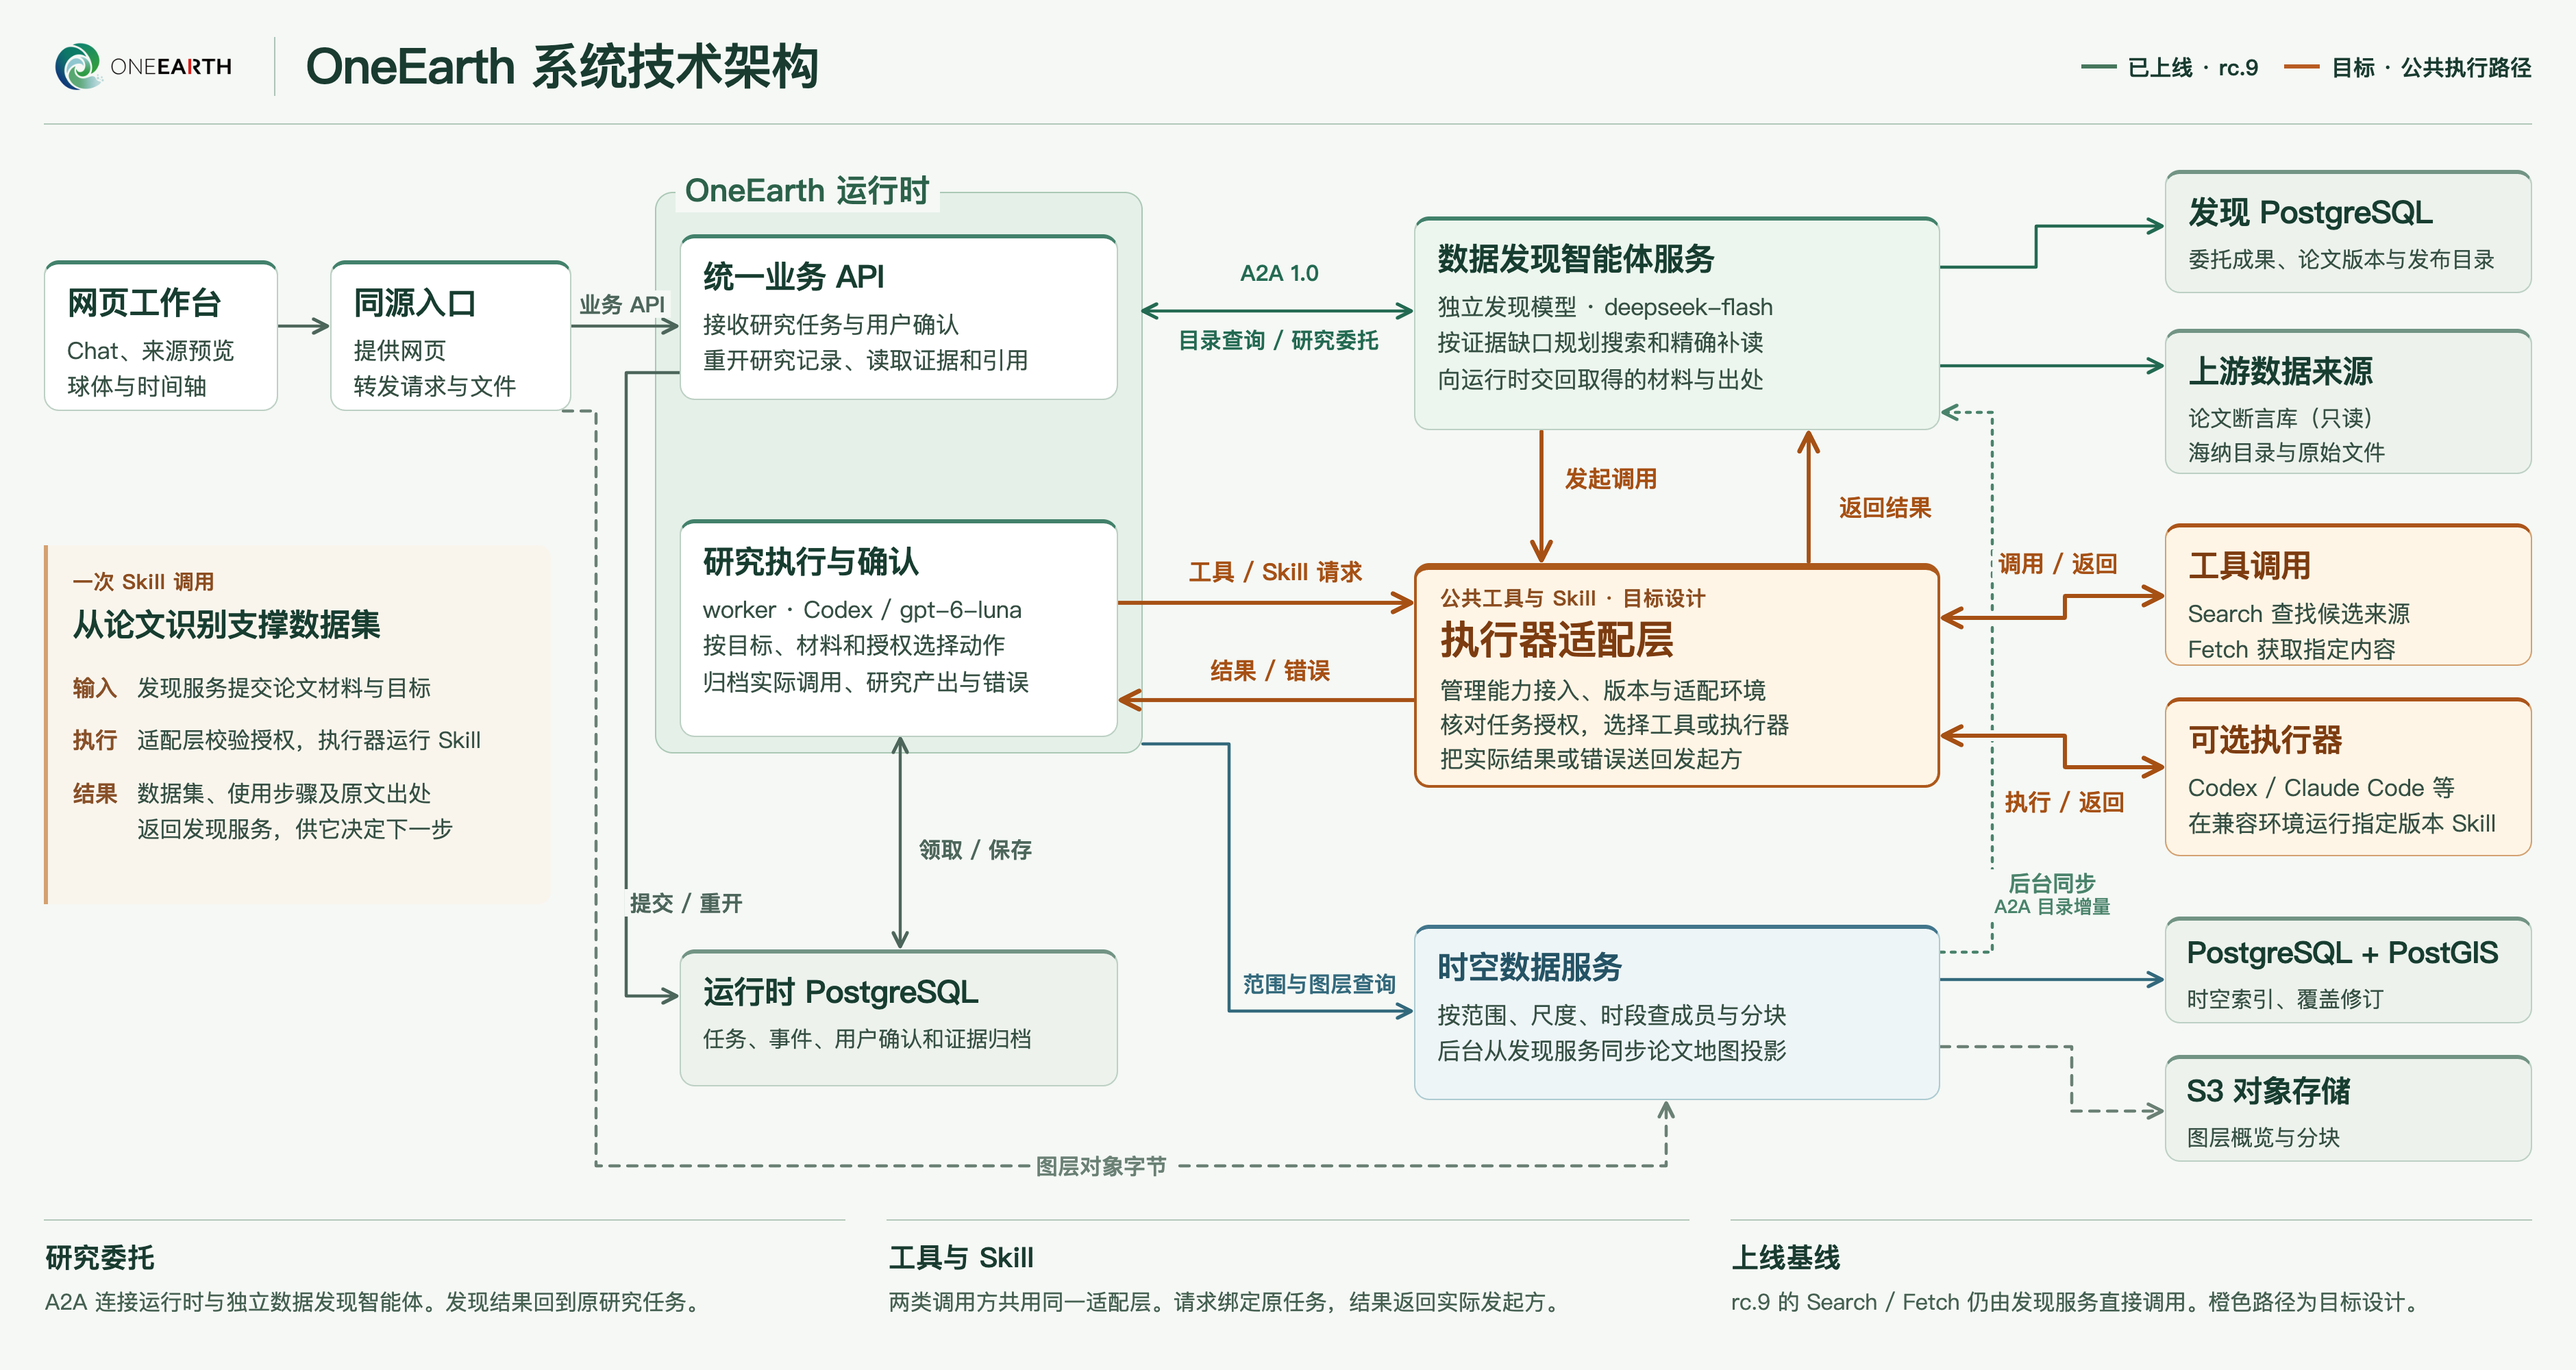
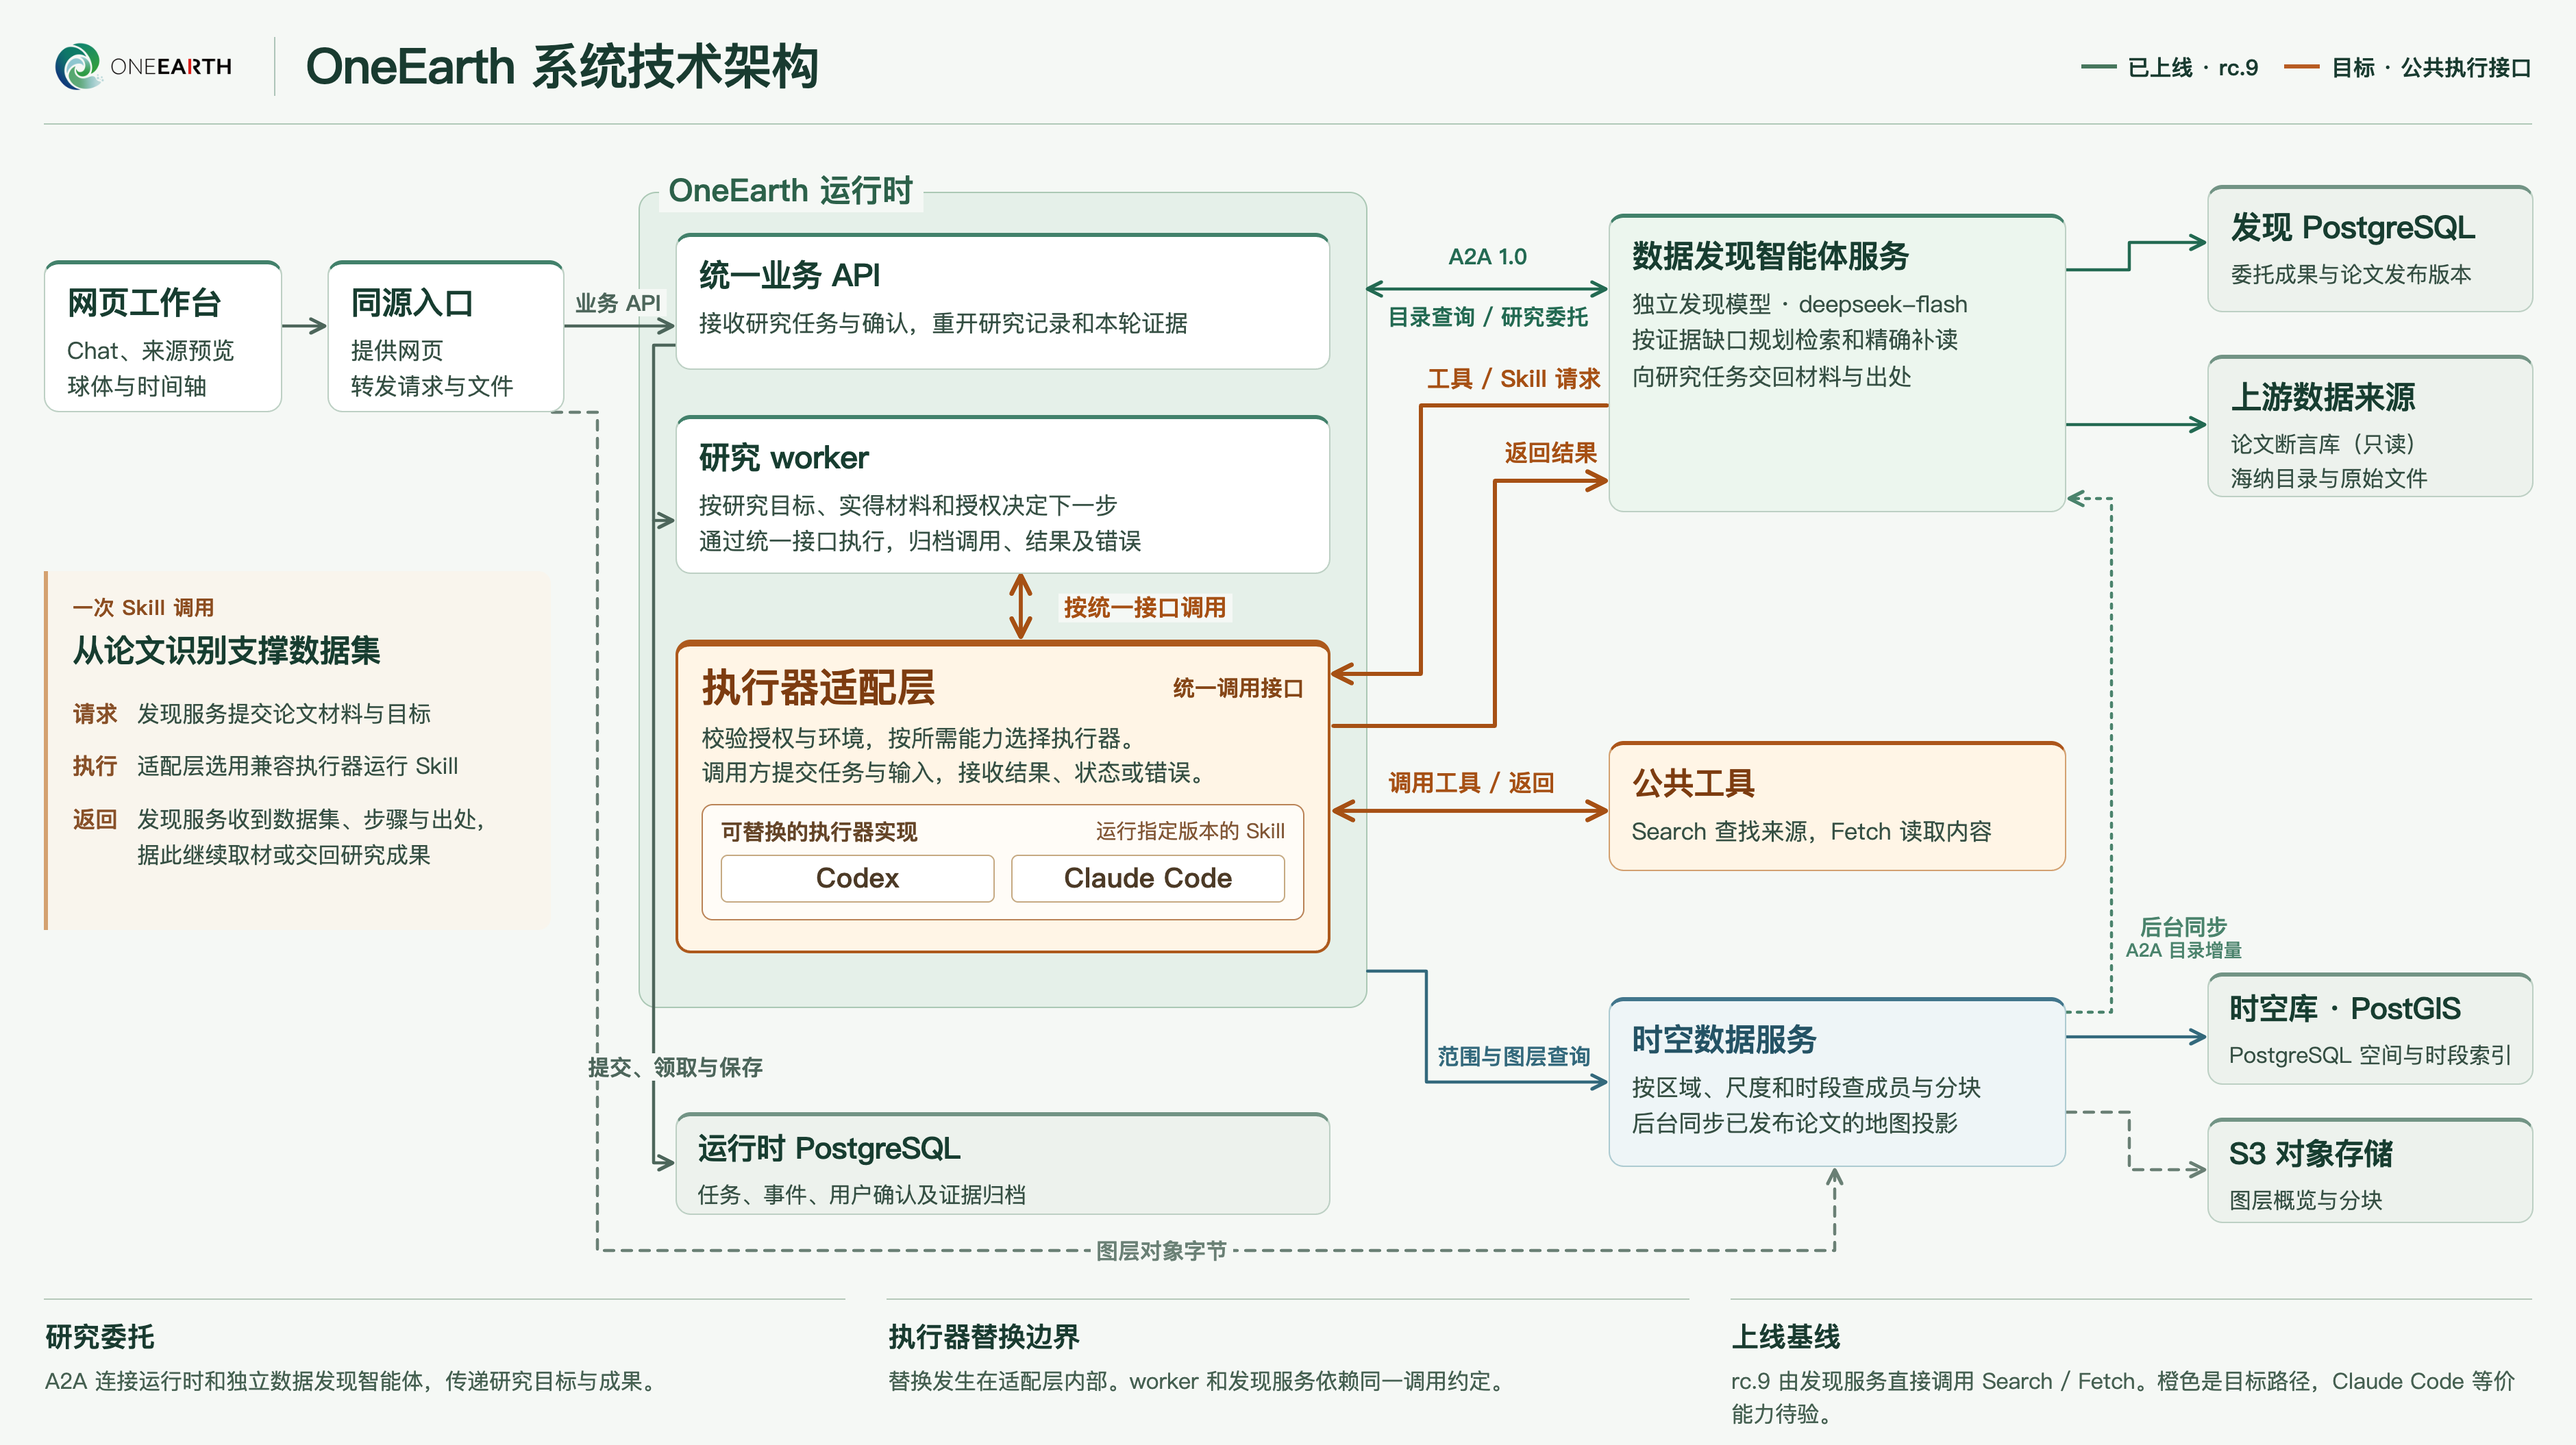
Clarify the runtime executor boundary in the architecture diagram

diff --git a/docs/架构与接口现状.md b/docs/架构与接口现状.md
@@ -1,6 +1,6 @@
 # OneEarth 架构与接口审查
 
-[执行架构目标图 PNG](diagrams/oneearth-execution-target.png)展示以 Mac mini 已签收版本 `v0.2.0-rc.9` 为基线的后续设计。
+[执行架构目标图 PNG](diagrams/oneearth-execution-target.png)展示以 Mac mini 已签收版本 `v0.2.0-rc.9` 为基线的后续设计。OneEarth 运行时内的执行器适配层封装可替换执行器，其他模块只依赖运行时提供的统一接口。
 
 ## Mac mini 论文发布与时空投影
 
